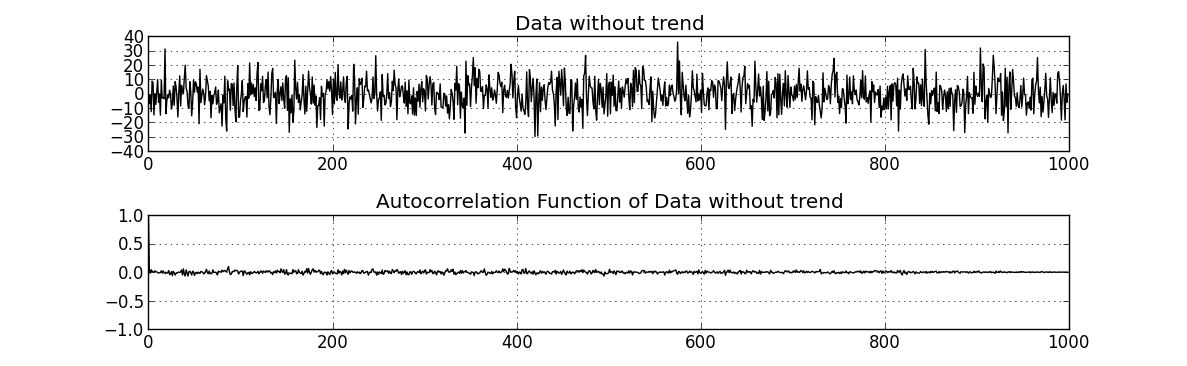
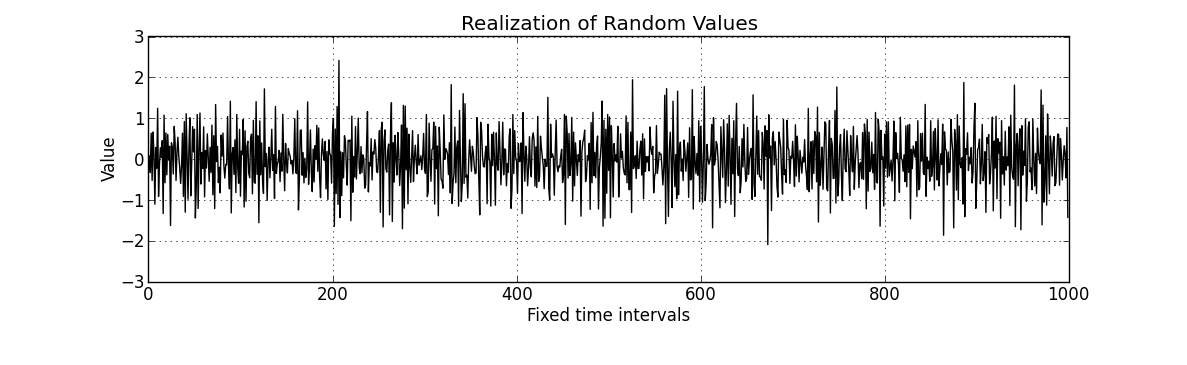
all sorts of stuff

diff --git a/notnotmyidea/templates/base.html b/notnotmyidea/templates/base.html
@@ -17,7 +17,8 @@
             MathJax.Hub.Config({
                 "HTML-CSS": {
                     styles: {
-                        ".MathJax .mo, .MathJax .mi": {color: "black ! important"}}
+                        ".MathJax .mo, .MathJax .mi": {color: "black ! important"}},
+                    scale: 125
                 },
                 tex2jax: {inlineMath: [['$','$'], ['\\\\(','\\\\)']],processEscapes: true}
             });

diff --git a/code/ts.py b/code/ts.py
@@ -98,31 +98,48 @@ def autocorrelation_fast(x):
 
 
 def autocorr_example():
-    np.random.seed(3290)
-    x = np.linspace(0, 4 * np.pi, 1000)
-    y_trend = np.sin(x) + np.random.normal(0, 1, 1000)
-    y_notrend = np.random.normal(0, 10, 1000)
-    # No trend plotting
-    plt.subplot(2, 1, 1)
-    plt.plot(y_notrend, 'k')
-    plt.title("Data without trend")
+    np.random.seed(123456)
+    # Make autocorrelated data
+    params = np.array([0.8, 0.5, -0.3])
+    x_auto = np.random.normal(0, 1, 3).tolist()
+    for _ in xrange(997):
+        x_auto.append(np.dot(x_auto[-3:], params) + np.random.normal(0, .5, 1)[0])
+    x_auto = np.array(x_auto)
+    auto_model = difference()
+    x_autodiff = auto_model.fit_transform(x_auto)
+    x_autodiff -= x_autodiff.mean()
+    x_autodiff /= x_autodiff.var()
+    # Make data that isn't autocorrelated
+    x_not = np.random.normal(0, 1, 1000)
+    not_auto_model = difference()
+    x_notdiff = not_auto_model.fit_transform(x_not)
+    x_notdiff -= x_notdiff.mean()
+    x_notdiff /= x_notdiff.var()
+    # Plot both series
+    plt.plot(x_autodiff, 'k')
+    plt.xlabel("Fixed time intervals")
+    plt.ylabel("Value")
     plt.grid()
-    plt.subplot(2, 1, 2)
-    plt.ylim(-1, 1)
-    plt.plot(autocorrelation_fast(y_notrend), 'k')
-    plt.title("Autocorrelation Function of Data without trend")
-    plt.grid()
+    plt.title("Realization of Autocorrelated Function")
     plt.show()
-    # Trend plotting
-    plt.subplot(2, 1, 1)
-    plt.plot(y_trend, 'k')
-    plt.title("Data with trend")
+    plt.plot(x_notdiff, 'k')
+    plt.xlabel("Fixed time intervals")
+    plt.ylabel("Value")
     plt.grid()
-    plt.subplot(2, 1, 2)
-    plt.ylim(-1, 1)
-    plt.plot(autocorrelation_fast(y_trend), 'k')
-    plt.title("Autocorrelation Function of Data with trend")
+    plt.title("Realization of Random Values")
+    plt.show()
+    # Plot autocorrelation of both
+    plt.plot(autocorrelation_fast(x_autodiff), 'k')
+    plt.xlabel("Lag")
+    plt.ylabel("Autocorrelation probability")
     plt.grid()
+    plt.title("Autocorrelation function of autocorrelated function")
+    plt.show()
+    plt.plot(autocorrelation_fast(x_notdiff), 'k')
+    plt.xlabel("Lag")
+    plt.ylabel("Autocorrelation probability")
+    plt.grid()
+    plt.title("Autocorrelation function of random values")
     plt.show()
 
 

diff --git a/pelicanconf.py b/pelicanconf.py
@@ -18,7 +18,11 @@ LINKS = (('R-bloggers', 'http://www.r-bloggers.com/'),
 SOCIAL = (('gitHub', 'http://github.com/JakeMick'),
           ('linkedIn', 'http://www.linkedin.com/pub/jacob-mick/53/2b2/b38'),
           )
-
+# Google Analytics
+GOOGLE_ANALYTICS = 'UA-44148111-1'
+# Disqus comments
+DISQUS_SITENAME = 'adventuresinvectors'
+# derpy derp
 DEFAULT_PAGINATION = 10
 #PLUGIN_PATH = '../pelican-plugins'
 #PLUGINS = ['better_figures_and_images']

diff --git a/content/ts_1.rst b/content/ts_1.rst
@@ -22,7 +22,8 @@ Why I'm writing this
 ####################
 
 Recently I've been learning about time series modelling. A lot of literature
-exists on the subject, with varying formality and intended uses. As with some
+exists on the subject, with varying formality and intended uses. This text
+will start off with time series as it relates to forecasting. With some
 statistics literature, it is not clear how to apply a given concept to data.
 I've included code for this reason. This isn't algorithmic recipes. The
 intent of this document is to gift you with an intuition behind ideas. Basically
@@ -94,8 +95,8 @@ The code used to produce the above plots is below.
 What is a Time Series?
 ######################
 Stepping back for a moment note that our walk $W$ is indexed by time point $t$.
-It is the case for all time series that $t \\in T \\subset R$. However, if
-$t \\in T \\not\\subset R$ then other theory and models are needed. An interesting
+It is the case for all time series that $t \\in T \\subset N$. However, if
+$t \\in T \\not\\subset N$ then other theory and models are needed. An interesting
 case outside the scope of this discussion arises when $t \\in T \\subset R^2$,
 which is useful for spatial analysis. Models of this class can be useful in
 predict house prices based on latitude and longitude. Spatial analysis is
@@ -132,7 +133,7 @@ Shown below are boxplots of 1000 realizations of a 1001 step Gaussian walk
 
 The important realizations are that though the mean value of the walk is 0,
 the variance is unbounded. An unbounded variance is an undesirable property
-in time series analysis. In the next section we'll learn how to recitify this
+in time series analysis. In the next section we'll learn how to rectify this
 behavior in the random walk case.
 
 The code for the above plots is below.
@@ -188,8 +189,6 @@ Here is the same model once differenced.
 
 .. image:: static/differed_const_mean.png
    :align: right
-
-
 
 A simple way to implement differencing in python is below.
 
@@ -262,29 +261,45 @@ lags of the time series.
 
 Define the autocorrelation function
 $\\gamma(s, r) = \\frac{E[(X_s - EX_s)(X_r - EX_r)]}{\\sigma_s \\sigma_r}$
-where $ s, r \\in T \\subset R$.
+where $ s, r \\in T \\subset N$.
 
 Well-behaved is precisely defined.
 
 If $EX_r = EX_s = \\mu$ and $\\sigma_r = \\sigma_s = \\sigma$ then the above
 equation reduces to $\\gamma(s, r) = \\frac{E[(x_s - \\mu)(x_r - \\mu)]}{\\sigma^2}$.
 
+Suppose that $\\gamma(s,r) = \\gamma(s+t,r+t)$.
+
 This is equivalent to saying $\\gamma(s, r) = \\gamma(s-r, 0)$, which can be
 rewritten as $\\gamma(h) = \\frac{E[(x_{t+h} - \\mu)(x_t - \\mu)]}{\\sigma^2}$.
 
 In English this means that our autocorrelation function is dependent only on the lag.
 
-Where we might see 
+Where we might see noise the autocorrelation function captures hidden structure.
 
-If we remove the variance divisor, we get the autocovariance function. However
-this change whacks up our interpretation, so we'll pretend it doesn't exist. Some
-literature uses these terms interchangably, but technically the autocovariance
-function is unnormalized.
+Consider the following sequence of random numbers.
 
+.. image:: static/autocorr_notrend.png
+   :align: right
 
+It has a pretty lame autocorrelation function.
 
-Importantly this function is invariant to left-right translation of the time series.
-It captures a deep truth about the observed signal.
+.. image:: static/autocorr_autocorr_notrend.png
+   :align: right
+
+Consider an autocorrelated sequence.
+
+.. image:: static/autocorr_trend.png
+   :align: right
+
+At face value, this sequence looks like the random numbers above. When we plot
+the autocorrelation function though, something interesting happens.
+
+.. image:: static/autocorr_autocorr_trend.png
+   :align: right
+
+Wow! Where we saw a useless plot, the autocorrelation function sees a pattern.
+Later on we'll exploit such patterns.
 
 Several methods exist for the computation. Some are based on the FFT, while others
 are a simple loop.
@@ -315,24 +330,88 @@ Adapted from the Statsmodels library is the following function.
         acf /= acf[0]
         return np.real(acf)
 
+You may be thinking, "oh shit, a fourier transform." Or you may be thinking
+"Oh shit! A fourier transform." So far, our analysis has been relegated to
+the time domain, but the frequency domain plays a central role to time series
+analysis. There's a lot of interesting math that arises in time series analysis.
+You'll have to read me prattle on for a bit before you see it. There's a
+fascinating relation between eigenvectors and the fourier transform.
+
+The code used to produce the plots in the above section.
+
 .. code-block:: python
 
-    import numpy as np
-    from matplotlib import pyplot as plt
+    def autocorr_example():
+        np.random.seed(123456)
+        # Make autocorrelated data
+        params = np.array([0.8, 0.5, -0.3])
+        x_auto = np.random.normal(0, 1, 3).tolist()
+        for _ in xrange(997):
+            x_auto.append(np.dot(x_auto[-3:], params) + np.random.normal(0, .5, 1)[0])
+        x_auto = np.array(x_auto)
+        auto_model = difference()
+        x_autodiff = auto_model.fit_transform(x_auto)
+        x_autodiff -= x_autodiff.mean()
+        x_autodiff /= x_autodiff.var()
+        # Make data that isn't autocorrelated
+        x_not = np.random.normal(0, 1, 1000)
+        not_auto_model = difference()
+        x_notdiff = not_auto_model.fit_transform(x_not)
+        x_notdiff -= x_notdiff.mean()
+        x_notdiff /= x_notdiff.var()
+        # Plot both series
+        plt.plot(x_autodiff, 'k')
+        plt.xlabel("Fixed time intervals")
+        plt.ylabel("Value")
+        plt.grid()
+        plt.title("Realization of Autocorrelated Function")
+        plt.show()
+        plt.plot(x_notdiff, 'k')
+        plt.xlabel("Fixed time intervals")
+        plt.ylabel("Value")
+        plt.grid()
+        plt.title("Realization of Random Values")
+        plt.show()
+        # Plot autocorrelation of both
+        plt.plot(autocorrelation_fast(x_autodiff), 'k')
+        plt.xlabel("Lag")
+        plt.ylabel("Autocorrelation probability")
+        plt.grid()
+        plt.title("Autocorrelation function of autocorrelated function")
+        plt.show()
+        plt.plot(autocorrelation_fast(x_notdiff), 'k')
+        plt.xlabel("Lag")
+        plt.ylabel("Autocorrelation probability")
+        plt.grid()
+        plt.title("Autocorrelation function of random values")
+        plt.show()
 
-    def lagmat(tseries, lag=2):
-        input_shape = tseries.shape
-        assert(len(input_shape) == 1)
-        n = input_shape[0]
-        values = np.concatenate((tseries[-1:0:-1], tseries))
-        a, b = np.ogrid[lag:n, n-1:n-lag-2:-1]
-        Tminus = values[a+b]
-        return Tminus[:,0], Tminus[:,1:]
 
-    def main():
-        go_through()
+############
+Stationarity
+############
 
-    if __name__ == '__main__':
-        main()
+Stationarity is the set of assumptions required for classic time series models.
+
+(i)
+    $E|X_t|^2 < \\infty, \\quad \\forall t \\in N$
+(ii)
+    $EX_t = \\mu, \\quad \\forall t \\in N$
+(iii)
+    $\\gamma(s, r) = \\gamma(s + t, r + t), \\quad \\forall r,s,t \\in N$
+
+In English
+
+(i)
+    The time series doesn't blow up.
+(ii)
+    The time series has no drift.
+(iii)
+    The correlation between values is dependent only on the lag between them.
+
+These assumptions are known as second-order stationarity, or weak stationarity.
+You can often achieve stationarity by (repeated) differencing of your time
+series.
+
 
 -- JakeMick
